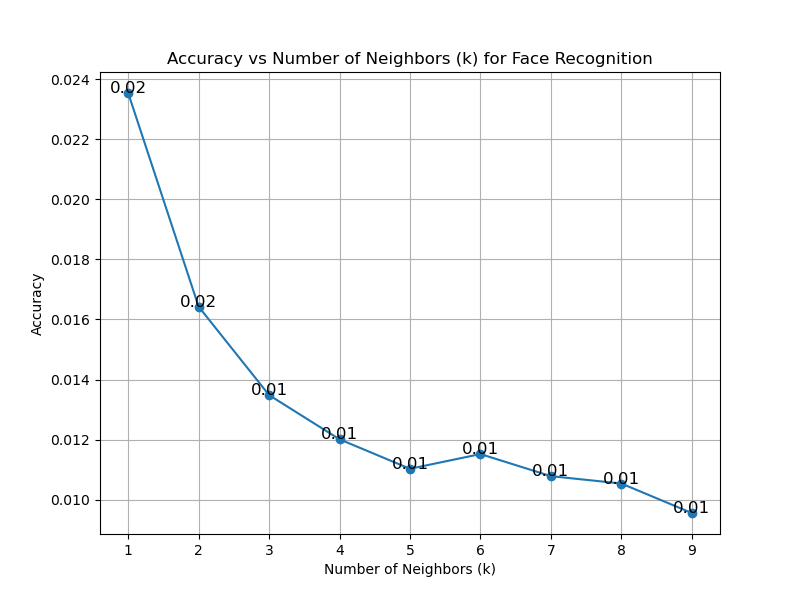
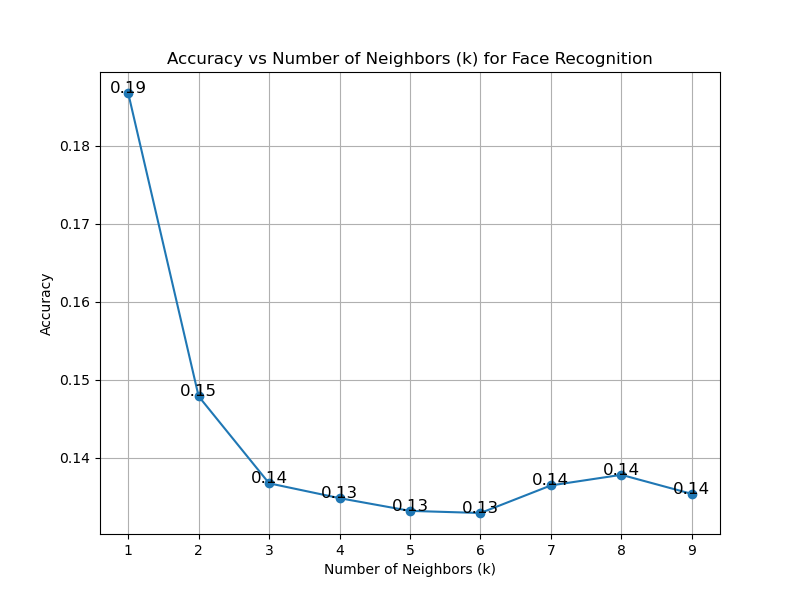
commit crop.py, detector3.py, cropped color pictures

diff --git a/bonus/kNN_hog.py b/bonus/kNN_hog.py
@@ -17,8 +17,8 @@ def extract_hog_features(image):
     return features, hog_image
 
 
-processedset_path = "../20_GeorgiaTechFaces/related/part_1"
-masked_processedset_path = "../20_GeorgiaTechFaces/masked/part_1"
+processedset_path = "../20_GeorgiaTechFaces/gray"
+masked_processedset_path = "../20_GeorgiaTechFaces/gray_mask"
 
 # 读取并处理图像数据
 X_train = []
